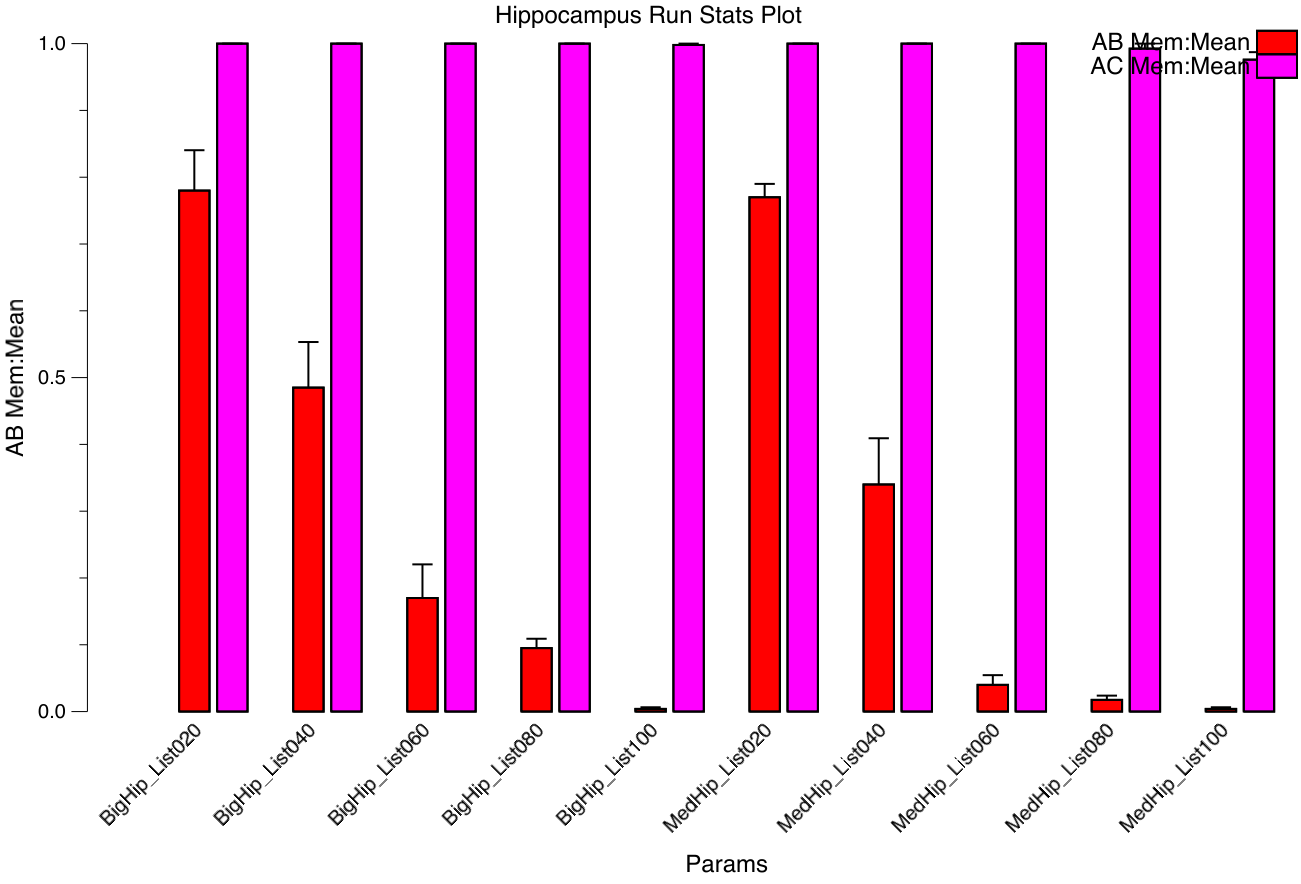
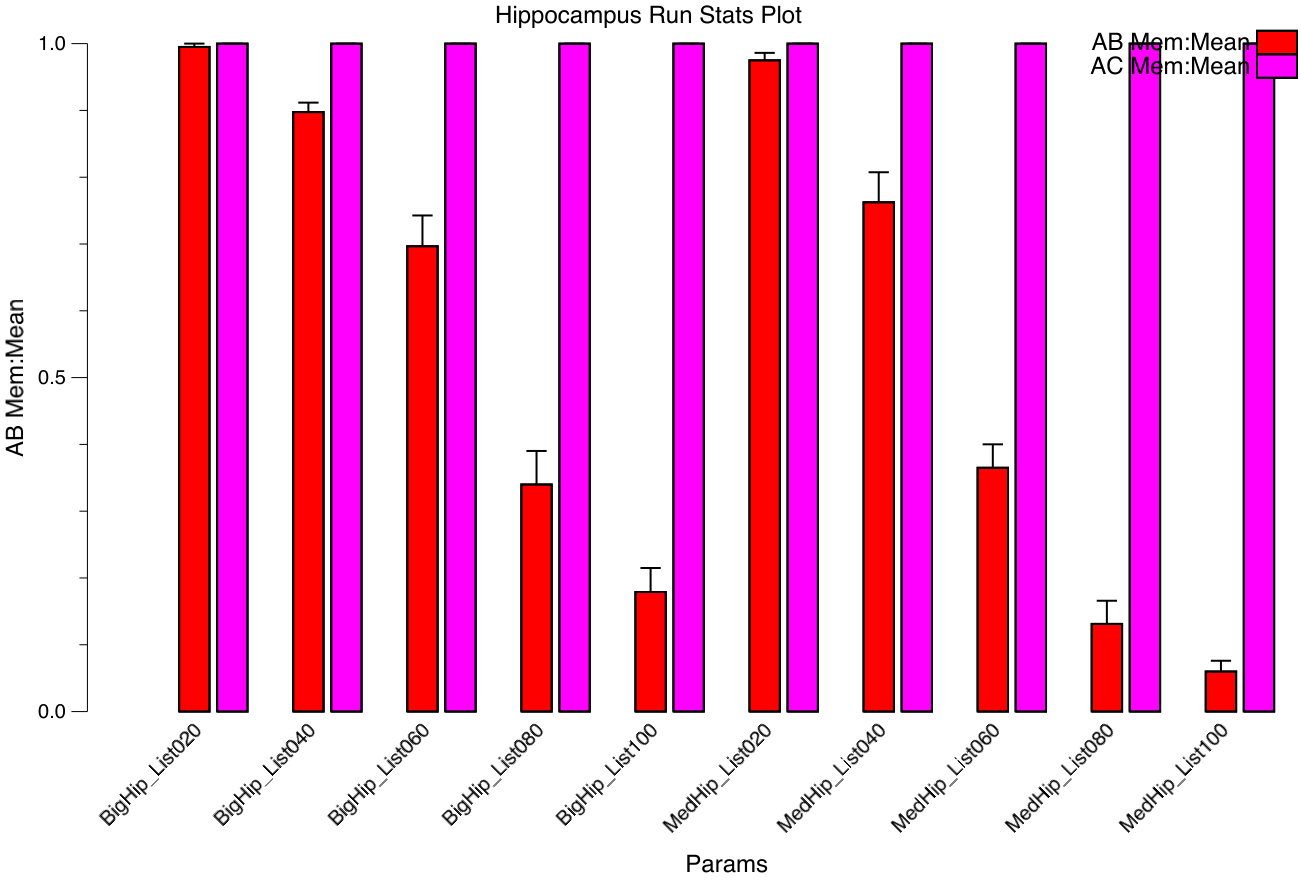
update main README and latest result figures

diff --git a/examples/hip_bench/hip_bench.go b/examples/hip_bench/hip_bench.go
@@ -255,7 +255,7 @@ func (hp *HipParams) Defaults() {
 	hp.ECPool.Set(7, 7)
 	hp.CA1Pool.Set(15, 15) // using MedHip now
 	hp.CA3Size.Set(30, 30) // using MedHip now
-	hp.DGRatio = 1.5
+	hp.DGRatio = 2.236 // c.f. Ketz et al., 2013
 
 	// ratio
 	hp.DGPCon = 0.25 // .35 is sig worse, .2 learns faster but AB recall is worse

diff --git a/examples/hip_bench/README.md b/examples/hip_bench/README.md
@@ -2,33 +2,27 @@ This project supports testing of the hippocampus model, systematically varying d
 
 It is both for optimizing parameters and also testing new learning ideas in the hippocampus.
 
-# Best Params for AB-AC, Dec 2020
+# Best Params for AB-AC, Jan 2021
 
-This is the second pass of parameter optimization, starting from original params inherited from C++ emergent `hip` model, and used in the Comp Cog Neuro textbook, etc.
+This is the third pass of parameter optimization, starting from original params inherited from C++ emergent `hip` model, and used in the Comp Cog Neuro textbook, etc.
 
 Dramatic improvements in learning performance were achieved by optimizing the following parameters and adding the following mechanisms:
-
-## Strong ECin -> DG learning
-
-ECin -> DG is playing perhaps the strongest role in learning overall, and benefits from a high, fast learning rate, with largely Hebbian learning, and a very low "SAvgCor" correction factor, meaning that it is really trying to turn off all other units that were not active.  In effect, it is stamping-in a specific pattern for each DG unit, and potentially separating the units further through this strong Hebbian learning which, using the CPCA mode, is turning off inactive inputs.  This ability to turn off inactive inputs also seems to be important for CA3 -> CA1, which works better with CPCA than BCM hebbian.
-
-However, learning in the DG -> CA3 pathway (mossies) is definitely bad.  My interpretation is that you want the CA3 neurons to be able to participate in many different "DG coded" memories, so having CA3 be biased toward any specific subset of DG units is not good, but the DG units themselves are really very specific.
 
 ## Error-driven CA3
 
 Modified `AlphaCyc` to reduce the strength of DG -> CA3 mossy inputs for the first quarter, then increase back to regular strength in Q2 onward.  This creates a minus phase state in CA3 in ActQ1, where it is driven primarily / exclusively by its ECin -> CA3 inputs.  By contrasting with final ActP state, this drives std error-driven learning in all the CA3 projections.
 
-The best params were a WtScale.Rel = 4 for mossy inputs, which is reduced to 0 during Q1, by setting MossyDel=4.  This is in contrast to the Rel = 8 used in default params.
+The best params were a WtScale.Rel = 4 for mossy inputs, which is reduced to 0 during Q1, by setting MossyDel=4.  This is in contrast to the Rel = 8 used in original params.
 
-While theoretically interesting, this is not the most critical performance factor overall.
+## Strong ECin -> DG learning
+
+ECin -> DG is playing perhaps the strongest role in learning overall, and benefits from a high, fast learning rate, with a very low "SAvgCor" correction factor, meaning that it is really trying to turn off all other units that were not active.  In effect, it is stamping-in a specific pattern for each DG unit, and potentially separating the units further through this strong Hebbian learning which, using the CPCA mode, is turning off inactive inputs.  This ability to turn off inactive inputs also seems to be important for CA3 -> CA1, which works better with CPCA than BCM hebbian.
+
+However, learning in the DG -> CA3 pathway (mossies) is definitely bad.  My interpretation is that you want the CA3 neurons to be able to participate in many different "DG coded" memories, so having CA3 be biased toward any specific subset of DG units is not good, but the DG units themselves are really very specific.
 
 ## Reduced DG on Test
 
 Decreasing the DG -> CA3 input during test significantly improves performance overall -- setting MossyDelTest = 3 was best (going all the way to 4 was significantly worse).  This allows the EC -> CA3 pathway to dominate more during testing, supporting more of a pattern-completion dynamic.  This is also closer to what the network experiences during error-driven learning.
-
-## Reduced CA3 <-> CA3 recurrents
-
-Reducing strength of recurrent collaterals in CA3 improves performance significantly.  Also reducing learning rate to .1 instead of .15 for main perforant path inputs.
 
 ## Somewhat sparser mossy inputs
 
@@ -38,38 +32,19 @@ Reducing MossyPCon = .02 instead of .05 was better, but not further.
 
 The standard Leabra BCM hebbian learning works better than the hip.CHLPrjn CPCA Hebbian learning.
 
-## Diffs
-
-Here are the diffs between the `orig_params.go` (starting params inherited from C++ emergent hip model) and current `def_params.go` representing the optimized params as described above.  Left panel shows original params, right the new best params, and differences are highlighted in brighter red color:
-
-![](fig_param_diffs_1.png?raw=true "Diffs 1")
-
-![](fig_param_diffs_2.png?raw=true "Diffs 2")
-
-And here are the diffs to the standard `hip.go` from `leabra/examples/hip` implementing the different network configuration and `AlphaCyc` code to achieve the above changes.  The full diffs including some changes to logging are here:  https://github.com/emer/leabra/blob/master/examples/hip/best_2-20.diff
-
-![](fig_netconfig_diffs.png?raw=true "ConfigNet Diffs")
-
-![](fig_alphacyc_diffs_1.png?raw=true "AlphaCyc Diffs 1")
-
-![](fig_alphacyc_diffs_2.png?raw=true "AlphaCyc Diffs 2")
-
-![](fig_alphacyc_diffs_3.png?raw=true "AlphaCyc Diffs 3")
-
-
 ## Performance
 
 The graphs below show number of epochs to get to 100% perfect performance, for the first AB list (First Zero) and both AB and AC lists (NEpochs), and also for the memory performance at the end of training, showing how much of the AB list is still remembered after full training on the AC list.  The new params show robust learning up to list sizes of 100 *each* for AB, AC lists, in the medium sized network, although the AB items are almost completely interfered away after learning the AC list.  In comparison, the original params had slower learning and poorer AB memory.
 
-All models have 7x7 EC pools with A, B/C item pools and 4 additional Context pools that differentiate the AB / AC lists.  The `SmallHip` has 20x20 = 400 CA3, DG = 1.5x = 600, and 10x10=100 CA1 pools (i.e., original textbook model size) while `MedHip` has 30x30 = 900 CA3, DG = 1.5x = 1350, and 15x15 = 225 CA1 pools.
+All models have 7x7 EC pools with A, B/C item pools and 4 additional Context pools that differentiate the AB / AC lists.  The `BigHip` has 20x20 = 400 CA3, DG = 5x = 2000, and 10x10 = 100 CA1 pools (i.e., original textbook model size); `MedHip` has 30x30 = 900 CA3, DG = 5x = 4500, and 15x15 = 225 CA1 pools; `BigHip` has 40x40 = 1600 CA3, DG = 5x = 8000, and 20x20 = 400 CA1 pools.
 
-### Current best params from 12/2020, list sizes 20-100
+### Current best params from 1/2021, list sizes 20-100
 
 <img src="def_learning.png" alt="Current best params from 12/2020, learning epochs, list sizes 20-100"  width="640" />
 
 <img src="def_memory.png" alt="Current best params from 12/2020, item memory, list sizes 20-100"  width="640" />
 
-### Original params runned in 12/2020, list sizes 20-100
+### Updated original params runned in 1/2021, list sizes 20-100
 
 <img src="orig_learning.png" alt="Original params runned in 2/2020, learning epochs, list sizes 20-100"  width="640" />
 
